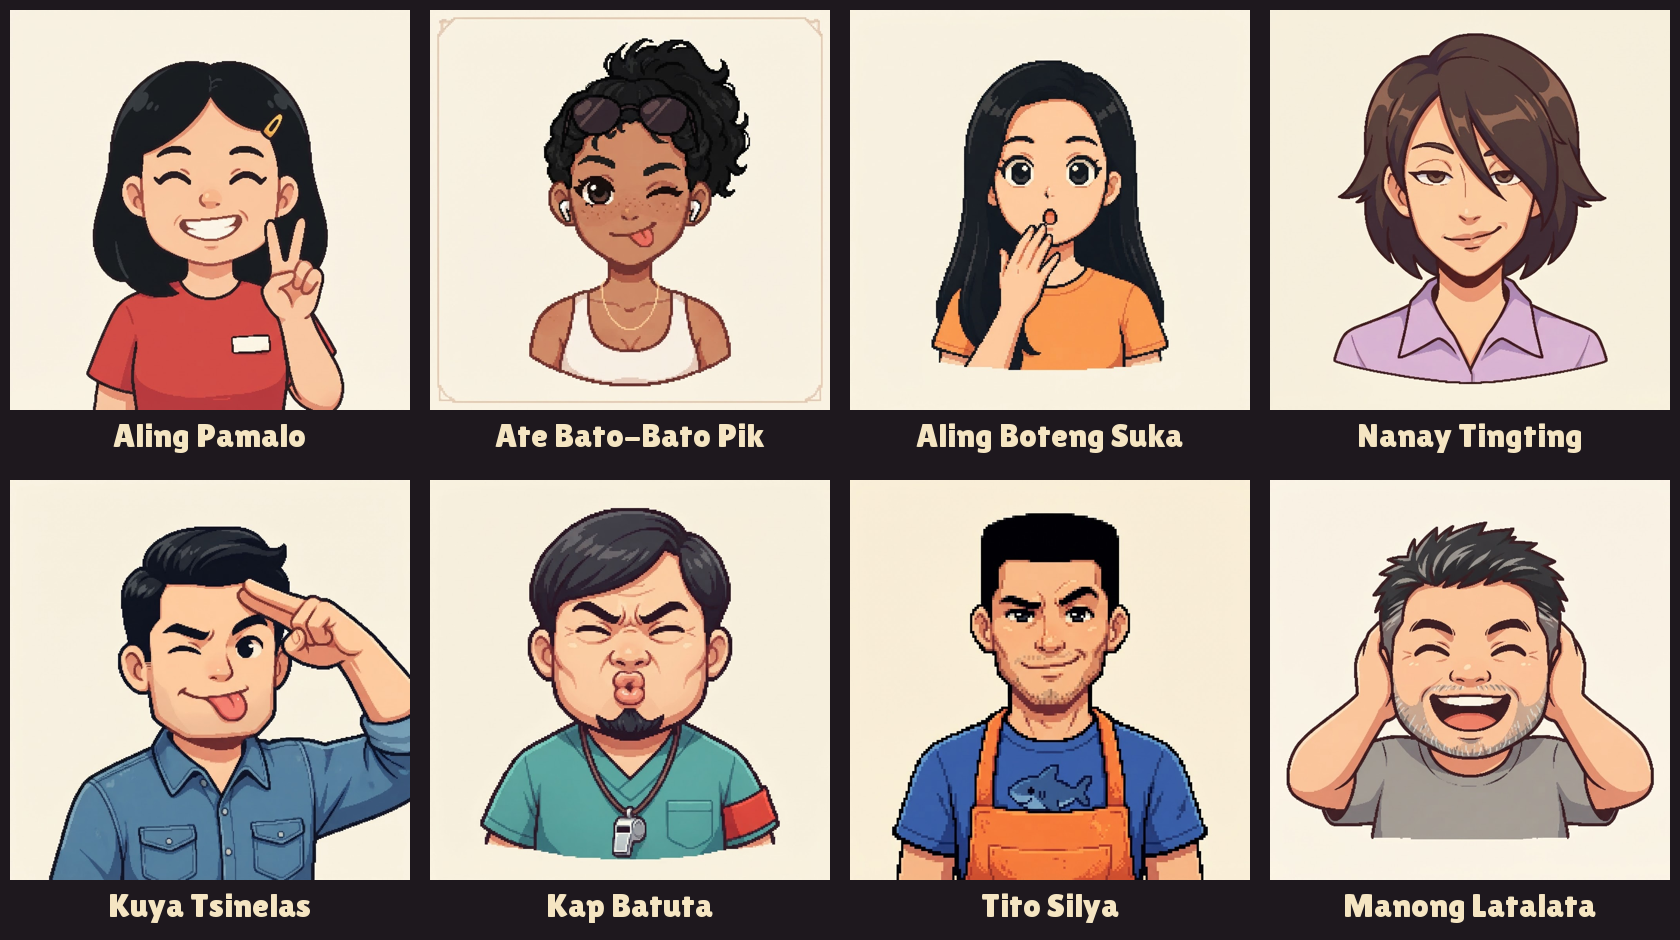
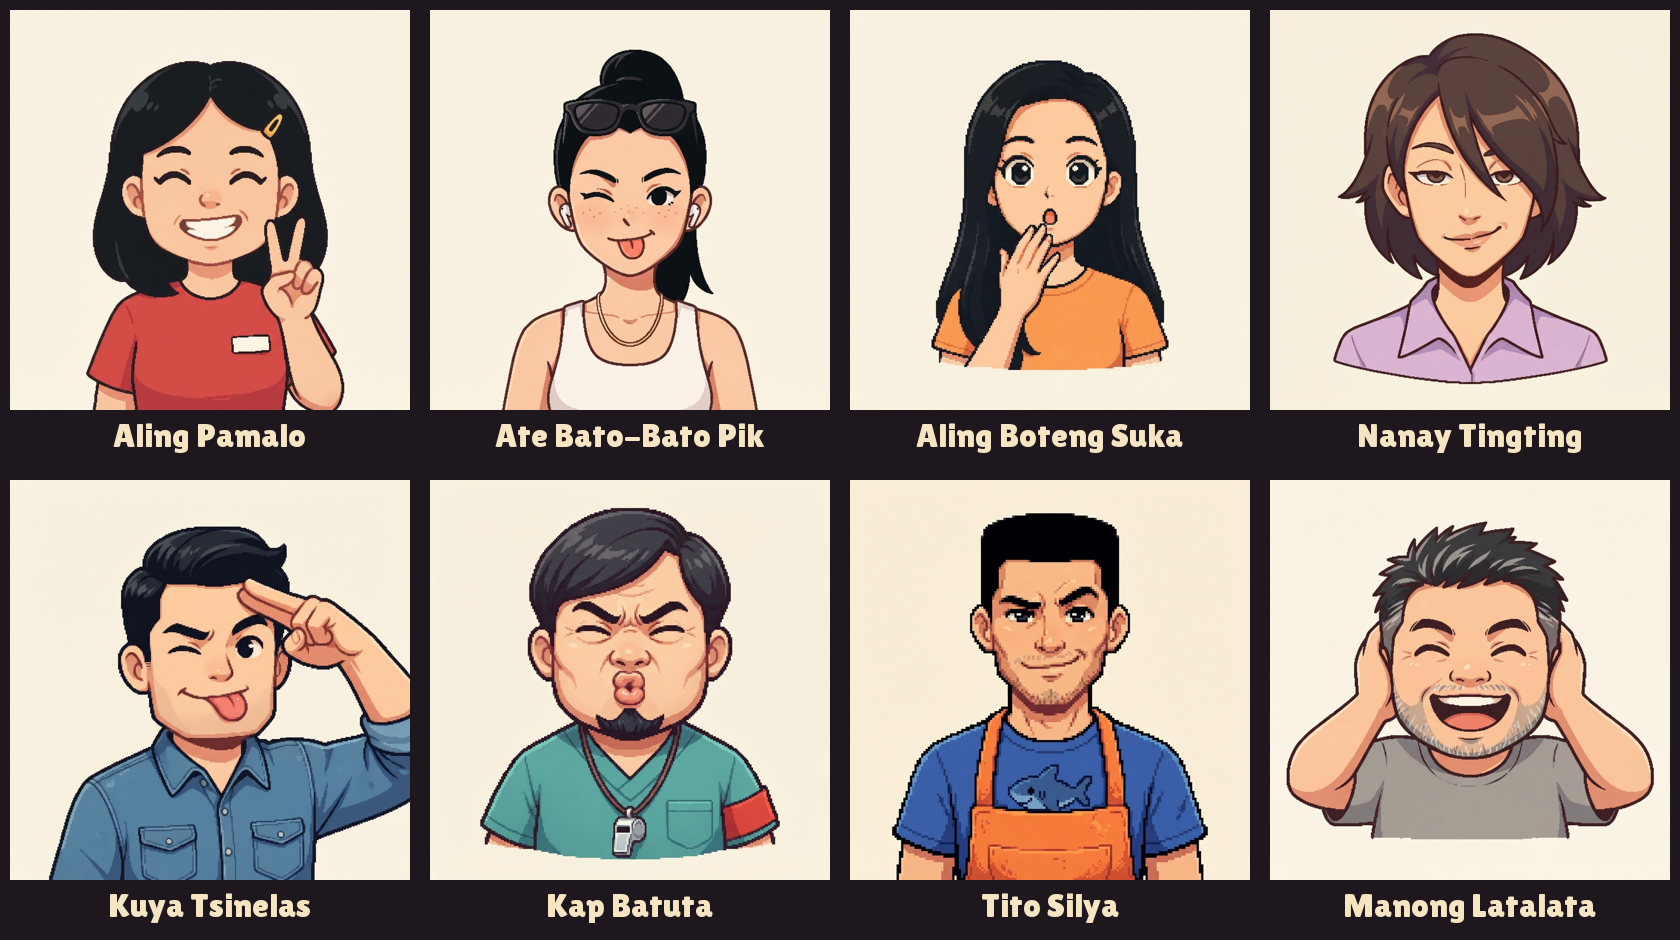
Add Figma full-body base poses (chroma-keyed), Ate Bato-Bato Pik ponytail portrait

Changed region(s): [[0.2786, 0.0309, 0.4952, 0.4628]]

diff --git a/Tools/key_bodies.py b/Tools/key_bodies.py
@@ -1,0 +1,25 @@
+"""Chroma-key the Figma full-body poses (pure green background) into transparent, feet-aligned PNGs.
+
+In:  Assets/Art/Characters/Source/body_N.jpg
+Out: Assets/Art/Characters/Keyed/body_N.png  (cropped, feet on the bottom edge, height 1024)
+"""
+from pathlib import Path
+import numpy as np
+from PIL import Image, ImageFilter
+
+ROOT = Path(__file__).resolve().parents[1] / 'Assets/Art/Characters'
+(ROOT / 'Keyed').mkdir(exist_ok=True)
+for n in range(1, 9):
+    rgb = np.asarray(Image.open(ROOT / f'Source/body_{n}.jpg').convert('RGB')).astype(float)
+    r, g, b = rgb[..., 0], rgb[..., 1], rgb[..., 2]
+    greenness = g - np.maximum(r, b)
+    alpha = np.clip(1 - (greenness - 40) / 60, 0, 1)          # soft edge between 40..100 green dominance
+    # Despill: pull green down to the other channels on the fringe.
+    rgb[..., 1] = np.where(greenness > 0, np.maximum(r, b) + np.clip(greenness, 0, 25) * .2, g)
+    a = Image.fromarray((alpha * 255).astype(np.uint8)).filter(ImageFilter.MinFilter(3)).filter(ImageFilter.GaussianBlur(.6))
+    im = Image.fromarray(rgb.astype(np.uint8)).convert('RGBA'); im.putalpha(a)
+    box = im.getchannel('A').point(lambda v: 255 if v > 40 else 0).getbbox()
+    im = im.crop((box[0] - 8, box[1] - 8, box[2] + 8, box[3]))
+    scale = 1024 / im.height
+    im.resize((round(im.width * scale), 1024), Image.Resampling.LANCZOS).save(ROOT / f'Keyed/body_{n}.png')
+print('ok')

diff --git a/HANDOFF.md b/HANDOFF.md
@@ -50,3 +50,8 @@ RESUME: build = `Unity.exe -batchmode -quit -projectPath <proj> -executeMethod H
 - CHARACTERS: Figma file https://www.figma.com/design/9J9nqsjyg38lIZVMeLXRYC (session e8b0b6d3-fa87-4e19-9c6d-b6f61d04b44f).
   8 portraits generated (text prompts only), saved Assets/Art/Characters/Source/portrait_N.jpg (N = order in Docs/CHARACTER_DESIGN.md).
   Sheet: QA_SCREENSHOTS/portrait_sheet.png. WAITING for student approval before full-body poses + animation rig.
+- PORTRAITS APPROVED. Redo: Ate Bato-Bato Pik (ponytail) KEPT as portrait_2. Tito Silya redo REJECTED (looked too young); original kept.
+- FULL-BODY POSES DONE (Figma, text only): Source/body_N.jpg -> chroma-keyed by Tools/key_bodies.py -> Assets/Art/Characters/Keyed/body_N.png
+  (1024 tall, feet on bottom edge). Sheet: QA_SCREENSHOTS/body_sheet.png.
+- IN PROGRESS / NEXT: scripted animation rig (split parts, idle/walk/suntok/hit/dizzy/fall/win + effects), rename internal keys,
+  then Umaga/Hapon recolors + Oras selector, screen backgrounds, UI redo, QA, SUBMISSION. No more Figma needed unless art is redone.

diff --git a/CODEX_RESUME.md b/CODEX_RESUME.md
@@ -19,7 +19,7 @@ Only ONE agent works on the repo at a time. Full detail: `HANDOFF.md`, `BUG_LOG.
 ## Next steps (status kept current in HANDOFF.md)
 | Step | Needs Figma/image tool? |
 |---|---|
-| Full-body base poses for 8 characters (`Assets/Art/Characters/Source/body_N.png`) | YES (Figma file https://www.figma.com/design/9J9nqsjyg38lIZVMeLXRYC) |
+| Full-body base poses (DONE: Assets/Art/Characters/Keyed/body_N.png) | done |
 | Any regenerated character art / new expression heads | YES |
 | Split bodies into parts + scripted animation (idle, walk, suntok, hit, dizzy, fall, win) + effects | No (Codex can do) |
 | Umaga/Hapon recolors (script), Oras selector, screen backgrounds by script | No |
